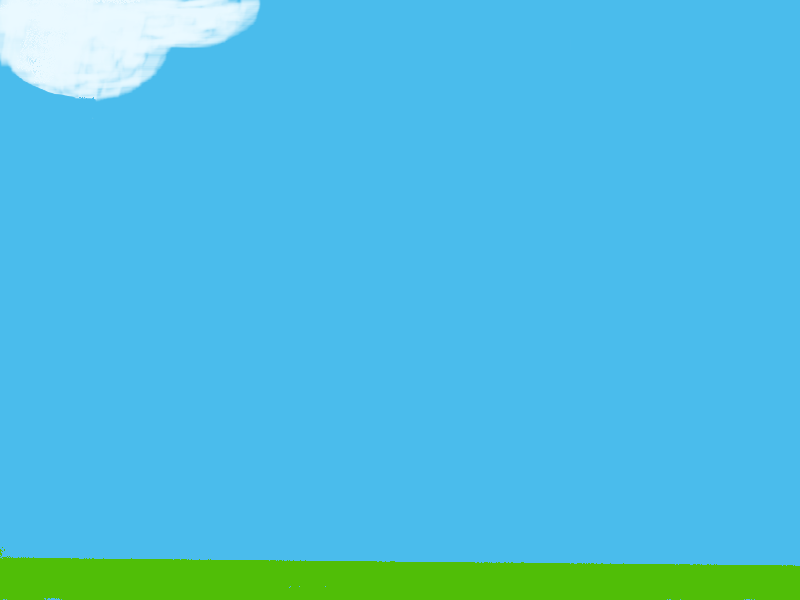
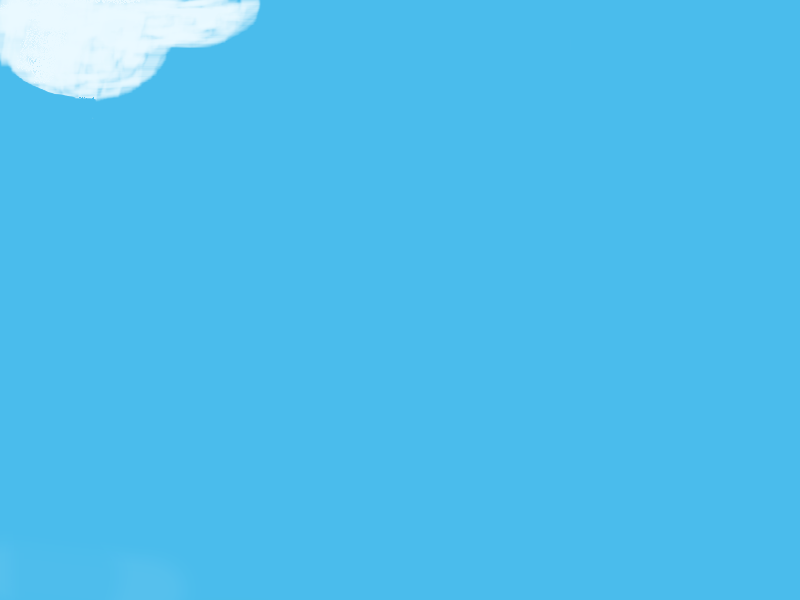
Boden von Hintergrund getrennt und erneut eingefügt. zusätzlich TODO-List aktualisiert

Changed region(s): [[0.0, 0.93, 1.0, 1.0]]

diff --git a/JumpNRunGame.cpp b/JumpNRunGame.cpp
@@ -15,6 +15,7 @@
 #include "HindernisTreppe.h"
 #include "Rechteckklein.h"
 #include "StehendesRechteck.h"
+#include "Boden.h"
 
 using namespace std;
 
@@ -28,10 +29,14 @@ void newHindernis();
 int zeit = 0;
 Figur* figur;
 Hintergrund* hintergrund;
+Boden* boden;
+
 Hindernis_Stufe* einfachesHindernis;
 Hindernisse* treppenHindernis;
 Rechteckklein* kleinesHindernis;
 StehendesRechteck* stehendesHindernis;
+
+
 
 std::vector<Hindernisse*> hindernisse;
 
@@ -55,6 +60,8 @@ int main(int argc, char*argv[]) {
 
 	Texturen["src/Hintergrund.png"] = LadeTexturPNG("src/Hintergrund.png");
 	hintergrund = new Hintergrund(-1, -1, Texturen["src/Hintergrund.png"]);
+	Texturen["src/Boden.png"] = LadeTexturPNG("src/Boden.png");
+	boden= new Boden(-1, -1, Texturen["src/Boden.png"]);
 
 	Texturen["src/figur.png"] = LadeTexturPNG("src/figur.png");
 	figur = new Figur(-0.5, -0.9, 0.6, Texturen["src/figur.png"]);
@@ -63,6 +70,7 @@ int main(int argc, char*argv[]) {
 	Texturen["src/Treppe.png"] = LadeTexturPNG("src/Treppe.png");
 	Texturen["src/Rechteckklein.png"] = LadeTexturPNG("src/Rechteckklein.png");
 	Texturen["src/StehendesRechteck.png"] = LadeTexturPNG("src/StehendesRechteck.png");
+
 
 
 	glutMainLoop(); //Hauptschleife
@@ -94,6 +102,7 @@ void display() {
 
 	//TODO display()
 	hintergrund->Display();
+	boden->Display();
 
 	glPushMatrix();
 	glTranslatef(figur->kameraposx, figur->kameraposy, 0);
@@ -104,7 +113,6 @@ void display() {
 	figur->Display();
 
 	for (uint i = hindernisse.size(); i > 0; i--){
-		cout<<"zeichne Hindernis "<<i<<endl;
 		hindernisse[i-1]->Display();
 	}
 
@@ -174,3 +182,4 @@ void newHindernis() {
 		naechstesHindernis = x + 1.5 + (rand()%100)/100;
 	}
 }
+

diff --git a/Boden.cpp b/Boden.cpp
@@ -1,0 +1,27 @@
+/*
+ * Boden.cpp
+ *
+ *  Created on: 30.05.2017
+ *      Author: nopper09
+ */
+
+#include "Boden.h"
+#include <GL/gl.h>
+#include <GL/glu.h>
+#include <GL/glut.h>
+#include <iostream>
+#include <vector>
+#include <cmath>
+#include <string>
+
+Boden::Boden(double x, double y,
+		GLuint texturNr) :
+		Object(x, y, 2, 0.1, texturNr) {
+	// TODO Auto-generated constructor stub
+
+}
+
+Boden::~Boden() {
+	// TODO Auto-generated destructor stub
+}
+

diff --git a/Boden.h b/Boden.h
@@ -1,0 +1,23 @@
+/*
+ * Boden.h
+ *
+ *  Created on: 30.05.2017
+ *      Author: nopper09
+ */
+
+#ifndef SRC_BODEN_H_
+#define SRC_BODEN_H_
+
+#include<GL/glut.h>
+#include "Object.h"
+
+class Boden: public Object {
+
+public:
+	Boden(double x, double y, GLuint texturNr);
+	virtual ~Boden();
+
+private:
+};
+
+#endif /* SRC_BODEN_H_ */
